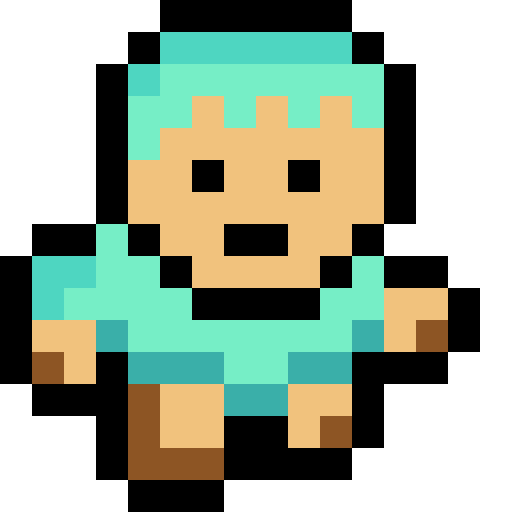
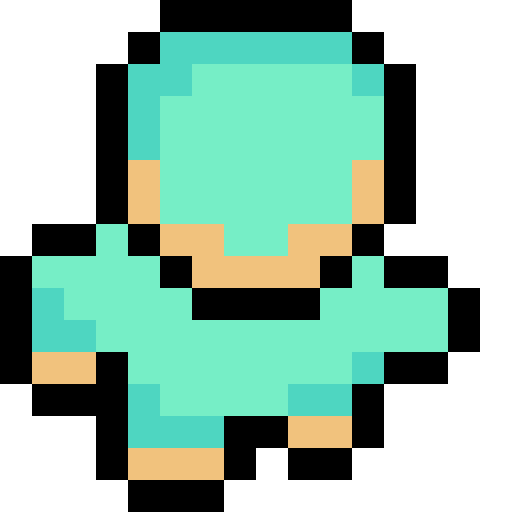
Draw walking animation, and Implement

diff --git a/src/entity/Player.java b/src/entity/Player.java
@@ -39,13 +39,13 @@ public class Player extends Entity {
 		try {
 			
 			up1 = ImageIO.read(getClass().getResourceAsStream("/player/char_up_1.png"));
-			up2 = ImageIO.read(getClass().getResourceAsStream("/player/char_up_1.png"));
-			down1 = ImageIO.read(getClass().getResourceAsStream("/player/char_up_1.png"));
-			down2 = ImageIO.read(getClass().getResourceAsStream("/player/char_up_1.png"));
-			left1 = ImageIO.read(getClass().getResourceAsStream("/player/char_up_1.png"));
-			left2 = ImageIO.read(getClass().getResourceAsStream("/player/char_up_1.png"));
-			right1 = ImageIO.read(getClass().getResourceAsStream("/player/char_up_1.png"));
-			right2 = ImageIO.read(getClass().getResourceAsStream("/player/char_up_1.png"));
+			up2 = ImageIO.read(getClass().getResourceAsStream("/player/char_up_2.png"));
+			down1 = ImageIO.read(getClass().getResourceAsStream("/player/char_down_1.png"));
+			down2 = ImageIO.read(getClass().getResourceAsStream("/player/char_down_2.png"));
+			left1 = ImageIO.read(getClass().getResourceAsStream("/player/char_left_1.png"));
+			left2 = ImageIO.read(getClass().getResourceAsStream("/player/char_left_2.png"));
+			right1 = ImageIO.read(getClass().getResourceAsStream("/player/char_right_1.png"));
+			right2 = ImageIO.read(getClass().getResourceAsStream("/player/char_right_2.png"));
 			
 		} catch(IOException e) {
 			e.getStackTrace();
@@ -55,27 +55,40 @@ public class Player extends Entity {
 	
 	public void update() {
 		
-		//The Y-axis decreases as we move up
-		if(keyH.upPressed == true) {
-			direction = "up";
-			y -= speed;
+		if(keyH.upPressed == true || keyH.downPressed == true || keyH.leftPressed == true || keyH.rightPressed == true) {
+			
+			//The Y-axis decreases as we move up
+			if(keyH.upPressed == true) {
+				direction = "up";
+				y -= speed;
+			}
+			//The Y-axis increases as we move down
+			else if(keyH.downPressed ==true) {
+				direction = "down";
+				y += speed;
+			}
+			//The X-axis decreases as we move left.
+			else if(keyH.leftPressed == true) {
+				direction = "left";
+				x -= speed;
+			}
+			//The X-axis increases as we move right
+			else if(keyH.rightPressed == true) {
+				direction = "right";
+				x += speed;
+			}
+			
+			spriteCounter++;
+			if(spriteCounter > 10) {
+				if(spriteNum == 1) {
+					spriteNum = 2;
+				}
+				else if(spriteNum == 2) {
+					spriteNum = 1;
+				}
+				spriteCounter = 0;
+			}
 		}
-		//The Y-axis increases as we move down
-		else if(keyH.downPressed ==true) {
-			direction = "down";
-			y += speed;
-		}
-		//The X-axis decreases as we move left.
-		else if(keyH.leftPressed == true) {
-			direction = "left";
-			x -= speed;
-		}
-		//The X-axis increases as we move right
-		else if(keyH.rightPressed == true) {
-			direction = "right";
-			x += speed;
-		}
-		
 	}
 	
 	public void draw(Graphics2D g2) {
@@ -87,16 +100,36 @@ public class Player extends Entity {
 		
 		switch(direction) {
 		case "up":
-			image = up1;
+			if(spriteNum == 1) {
+				image = up1;
+			}
+			if(spriteNum == 2) {
+				image = up2;
+			}
 			break;
 		case "down":
-			image = down1;
+			if(spriteNum == 1) {
+				image = down1;
+			}
+			if(spriteNum == 2) {
+				image = down2;
+			}
 			break;
 		case "left":
-			image = left1;
+			if(spriteNum == 1) {
+				image = left1;
+			}
+			if(spriteNum == 2) {
+				image = left2;
+			}
 			break;
 		case "right":
-			image = right1;
+			if(spriteNum == 1) {
+				image = right1;
+			}
+			if(spriteNum == 2) {
+				image = right2;
+			}
 			break;
 		}
 		g2.drawImage(image, x, y, gp.tileSize, gp.tileSize, null);

diff --git a/src/entity/Entity.java b/src/entity/Entity.java
@@ -10,4 +10,7 @@ public class Entity {
 	public BufferedImage up1, up2, down1, down2, left1, left2, right1, right2;
 	public String direction;
 	
+	public int spriteCounter = 0;
+	public int spriteNum = 1;
+	
 }
